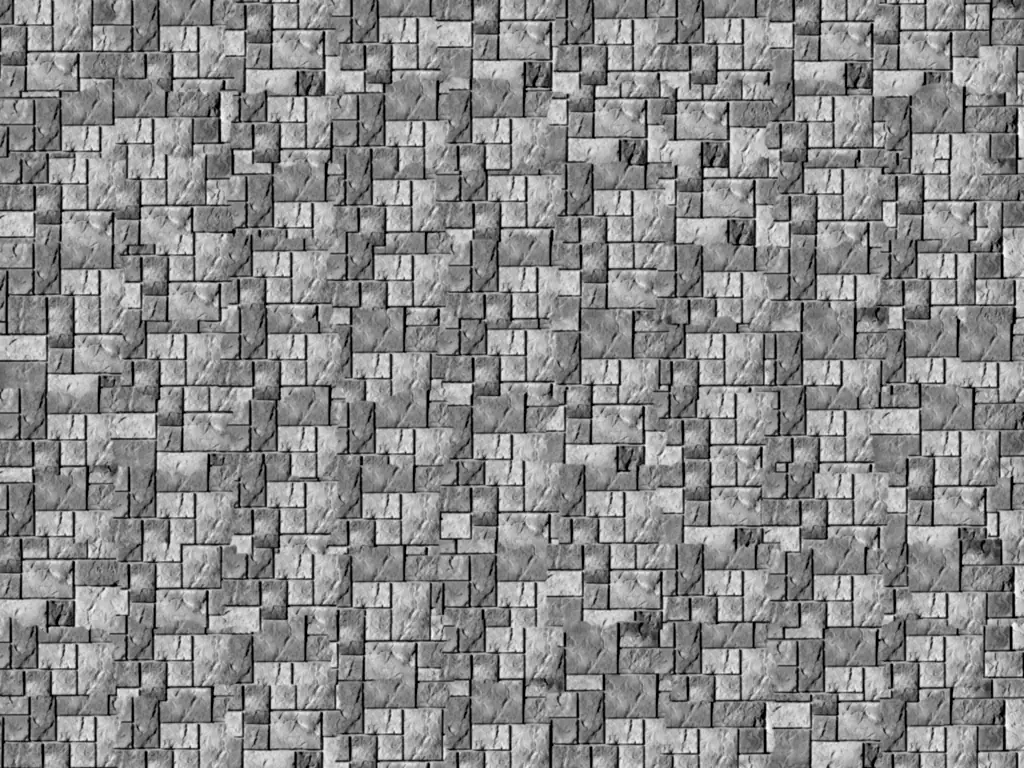
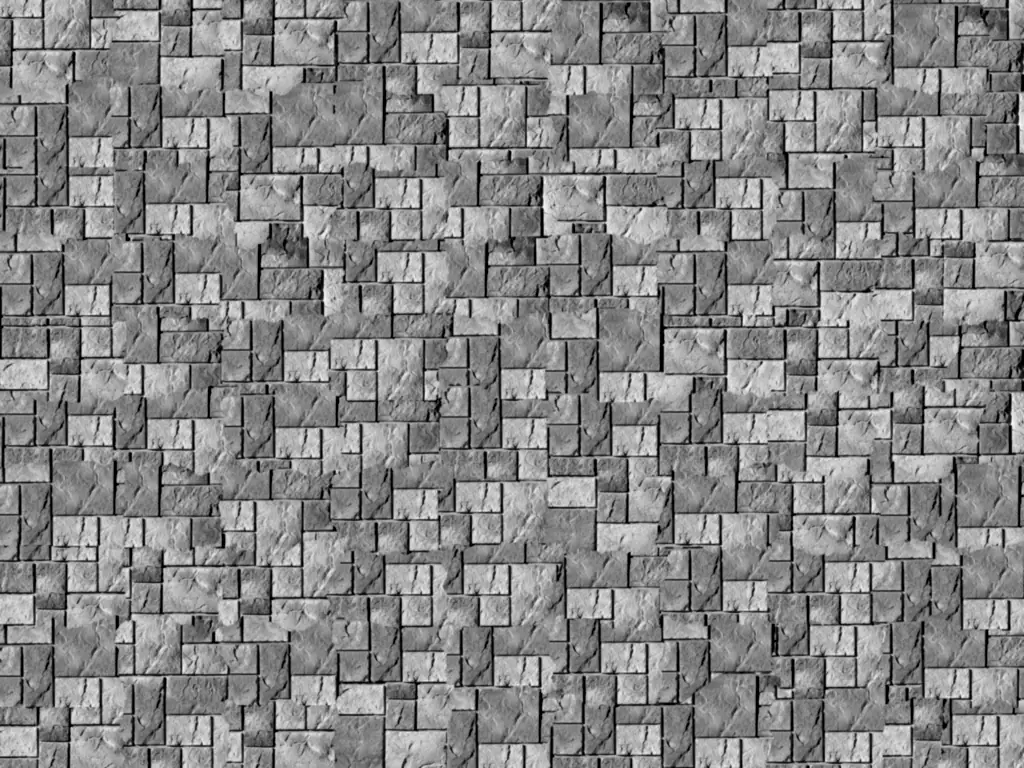
Rebuild Bucks County Castle showroom material

diff --git a/src/lib/readiness.ts b/src/lib/readiness.ts
@@ -37,7 +37,10 @@ export function detectGraphicsSupport(): GraphicsSupport {
   const canvas = document.createElement("canvas");
   const options: WebGLContextAttributes = {
     antialias: true,
-    failIfMajorPerformanceCaveat: true,
+    // A valid software or integrated-GPU context is an intentional fallback.
+    // Rejecting it here can leave Chromium/WebKit waiting inside getContext()
+    // instead of reaching the diagnostics panel that reports reduced graphics.
+    failIfMajorPerformanceCaveat: false,
     powerPreference: "high-performance",
   };
 

diff --git a/src/domain/catalog.ts b/src/domain/catalog.ts
@@ -2192,7 +2192,7 @@ export const legacyStoneProducts20260805 = z.array(stoneProductSchema).parse([
 
 export const stoneProducts = z.array(stoneProductSchema).parse(generatedCenturionStoneProducts);
 
-export const APP_VERSION = "0.28.3";
+export const APP_VERSION = "0.28.4";
 
 export type FireplaceId = z.infer<typeof fireplaceIdSchema>;
 export type FaceOptionId = z.infer<typeof faceOptionIdSchema>;

diff --git a/public/service-worker.js b/public/service-worker.js
@@ -1,4 +1,4 @@
-const CACHE_VERSION = "firedesign-2026.08.14-1-c2ad7674bb95";
+const CACHE_VERSION = "firedesign-2026.08.14-1-210f46f57479";
 const SHELL = ["/", "/manifest.webmanifest", "/icon.svg", "/icon-192.png", "/icon-512.png"];
 
 async function loadApprovedManifest(cache) {
